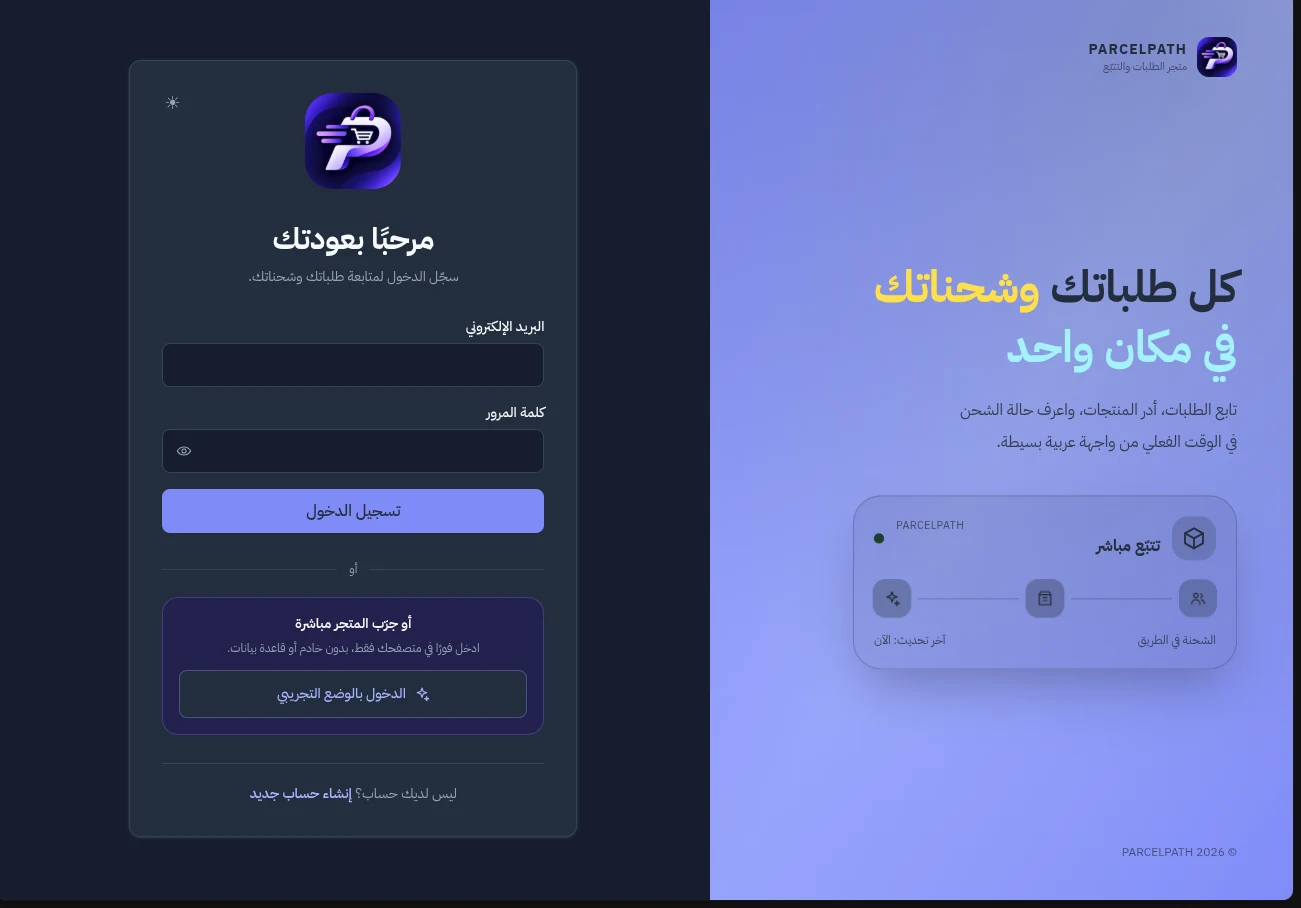
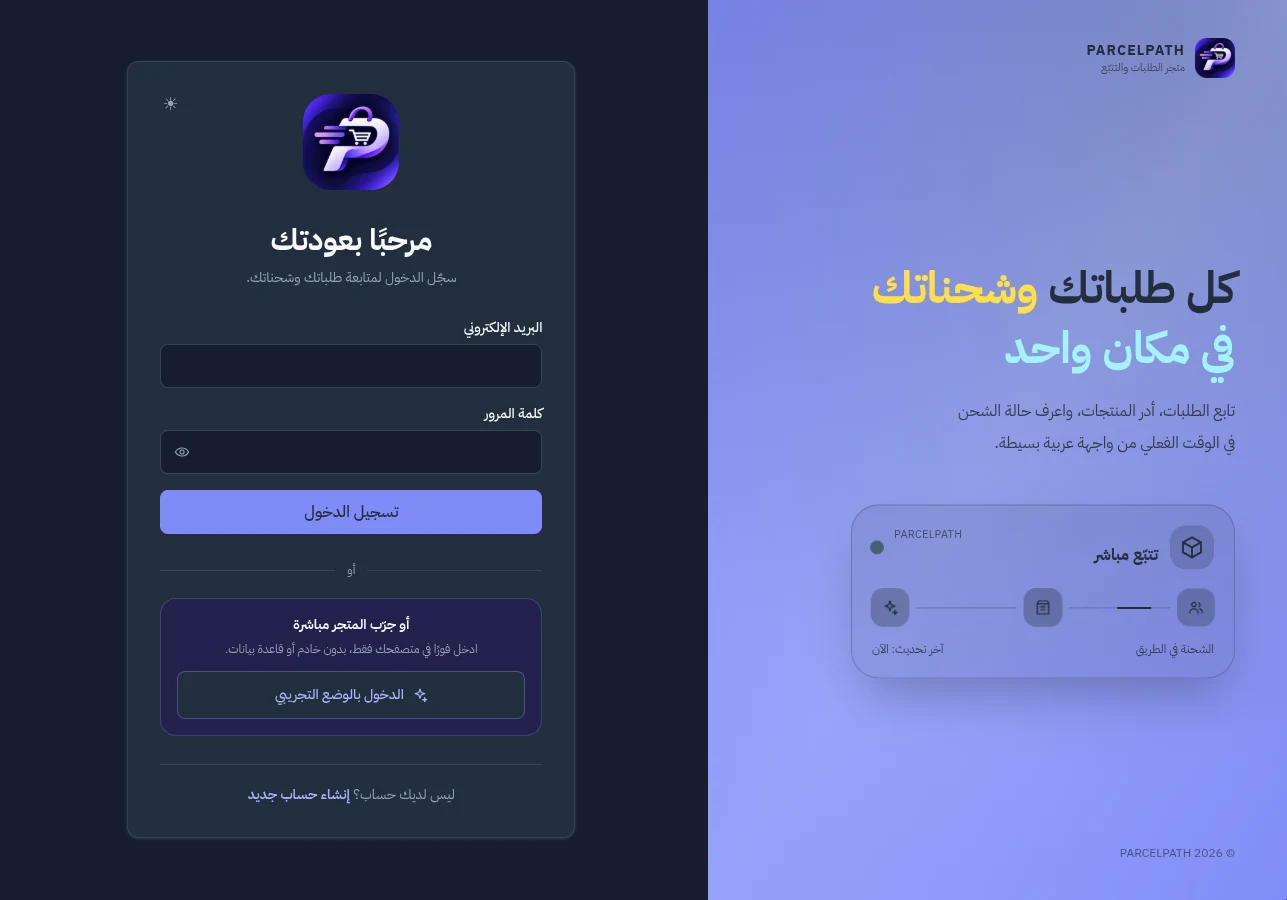
Update PARCELPATH screenshots, simplify description, match ORVIA link order

diff --git a/index.html b/index.html
@@ -287,11 +287,10 @@
 <div class="card-links"><a style="margin-right:26px" href="https://github.com/leaderbasil/ORVIA" target="_blank" rel="noopener" data-track="github-orvia">View on GitHub</a><a href="https://orvia-pos.netlify.app/" target="_blank" rel="noopener" data-track="orvia-demo">Open the live demo</a></div>
 <div class="shot"><img class="lt" src="assets/orvia-light.webp" width="1638" height="999" alt="ORVIA grocery point of sale and inventory interface in light mode" loading="lazy" decoding="async"><img class="dk" src="assets/orvia-dark.webp" width="1638" height="999" alt="ORVIA grocery point of sale and inventory interface in dark mode" loading="lazy" decoding="async"></div></article>
 <article class="card rv"><h3>PARCELPATH</h3><p class="tag">An order and shipment tracking platform</p>
-<p>An Arabic RTL storefront and admin dashboard for orders and shipments. The FastAPI backend manages products, inventory with row locks, idempotent order creation, a restricted status machine, and sales reports. React and strict TypeScript power the interface, with the demo hosted on Netlify.</p>
-<ul class="stats"><li><b>2</b>apps in one repo</li><li><b>v1</b>versioned REST API</li><li><b>100%</b>Arabic RTL UI</li></ul>
+<p>An Arabic RTL storefront and admin dashboard for orders and shipments. FastAPI handles products, inventory with row locks, idempotent order creation, a restricted status machine, and sales reports, while React and strict TypeScript power the interface.</p>
 <ul class="tiles"><li style="--i:0"><span class="ic"><svg aria-hidden="true"><use href="#ic-fastapi"/></svg></span>FastAPI</li><li style="--i:1"><span class="ic"><svg aria-hidden="true"><use href="#ic-postgres"/></svg></span>PostgreSQL</li><li style="--i:2"><span class="ic"><svg aria-hidden="true"><use href="#ic-react"/></svg></span>React</li><li style="--i:3"><span class="ic"><svg aria-hidden="true"><use href="#ic-ts"/></svg></span>TypeScript</li><li style="--i:4"><span class="ic"><svg aria-hidden="true"><use href="#ic-netlify"/></svg></span>Netlify</li></ul>
-<div class="card-links"><a style="margin-right:26px" href="https://parcelpath-demo.netlify.app/login" target="_blank" rel="noopener" data-track="parcelpath-demo">Open the live demo</a><a href="https://github.com/leaderbasil/PARCELPATH" target="_blank" rel="noopener" data-track="github-parcelpath">View on GitHub</a></div>
-<div class="shot"><img class="lt" src="assets/parcelpath-light.webp" width="1304" height="909" alt="PARCELPATH storefront in light mode with the Arabic interface" loading="lazy" decoding="async"><img class="dk" src="assets/parcelpath-dark.webp" width="1301" height="908" alt="PARCELPATH storefront in dark mode with the Arabic interface" loading="lazy" decoding="async"></div></article>
+<div class="card-links"><a style="margin-right:26px" href="https://github.com/leaderbasil/PARCELPATH" target="_blank" rel="noopener" data-track="github-parcelpath">View on GitHub</a><a href="https://parcelpath-demo.netlify.app/login" target="_blank" rel="noopener" data-track="parcelpath-demo">Open the live demo</a></div>
+<div class="shot"><img class="lt" src="assets/parcelpath-light.webp" width="1292" height="897" alt="PARCELPATH storefront in light mode with the Arabic interface" loading="lazy" decoding="async"><img class="dk" src="assets/parcelpath-dark.webp" width="1287" height="900" alt="PARCELPATH storefront in dark mode with the Arabic interface" loading="lazy" decoding="async"></div></article>
 <article class="card rv"><h3>RIPPLE</h3><p class="tag">An incremental build analysis engine in C++</p>
 <p>Works out which files need rebuilding after an edit, and in what order, without calling the compiler. It combines an include graph, content hashing, and Kahn’s algorithm, and reports dependency cycles instead of failing silently.</p>
 <ul class="tiles"><li style="--i:0"><span class="ic"><svg aria-hidden="true"><use href="#ic-cpp"/></svg></span>C++</li><li style="--i:1"><span class="ic"><svg aria-hidden="true"><use href="#ic-graph"/></svg></span>Graph algorithms</li></ul>
